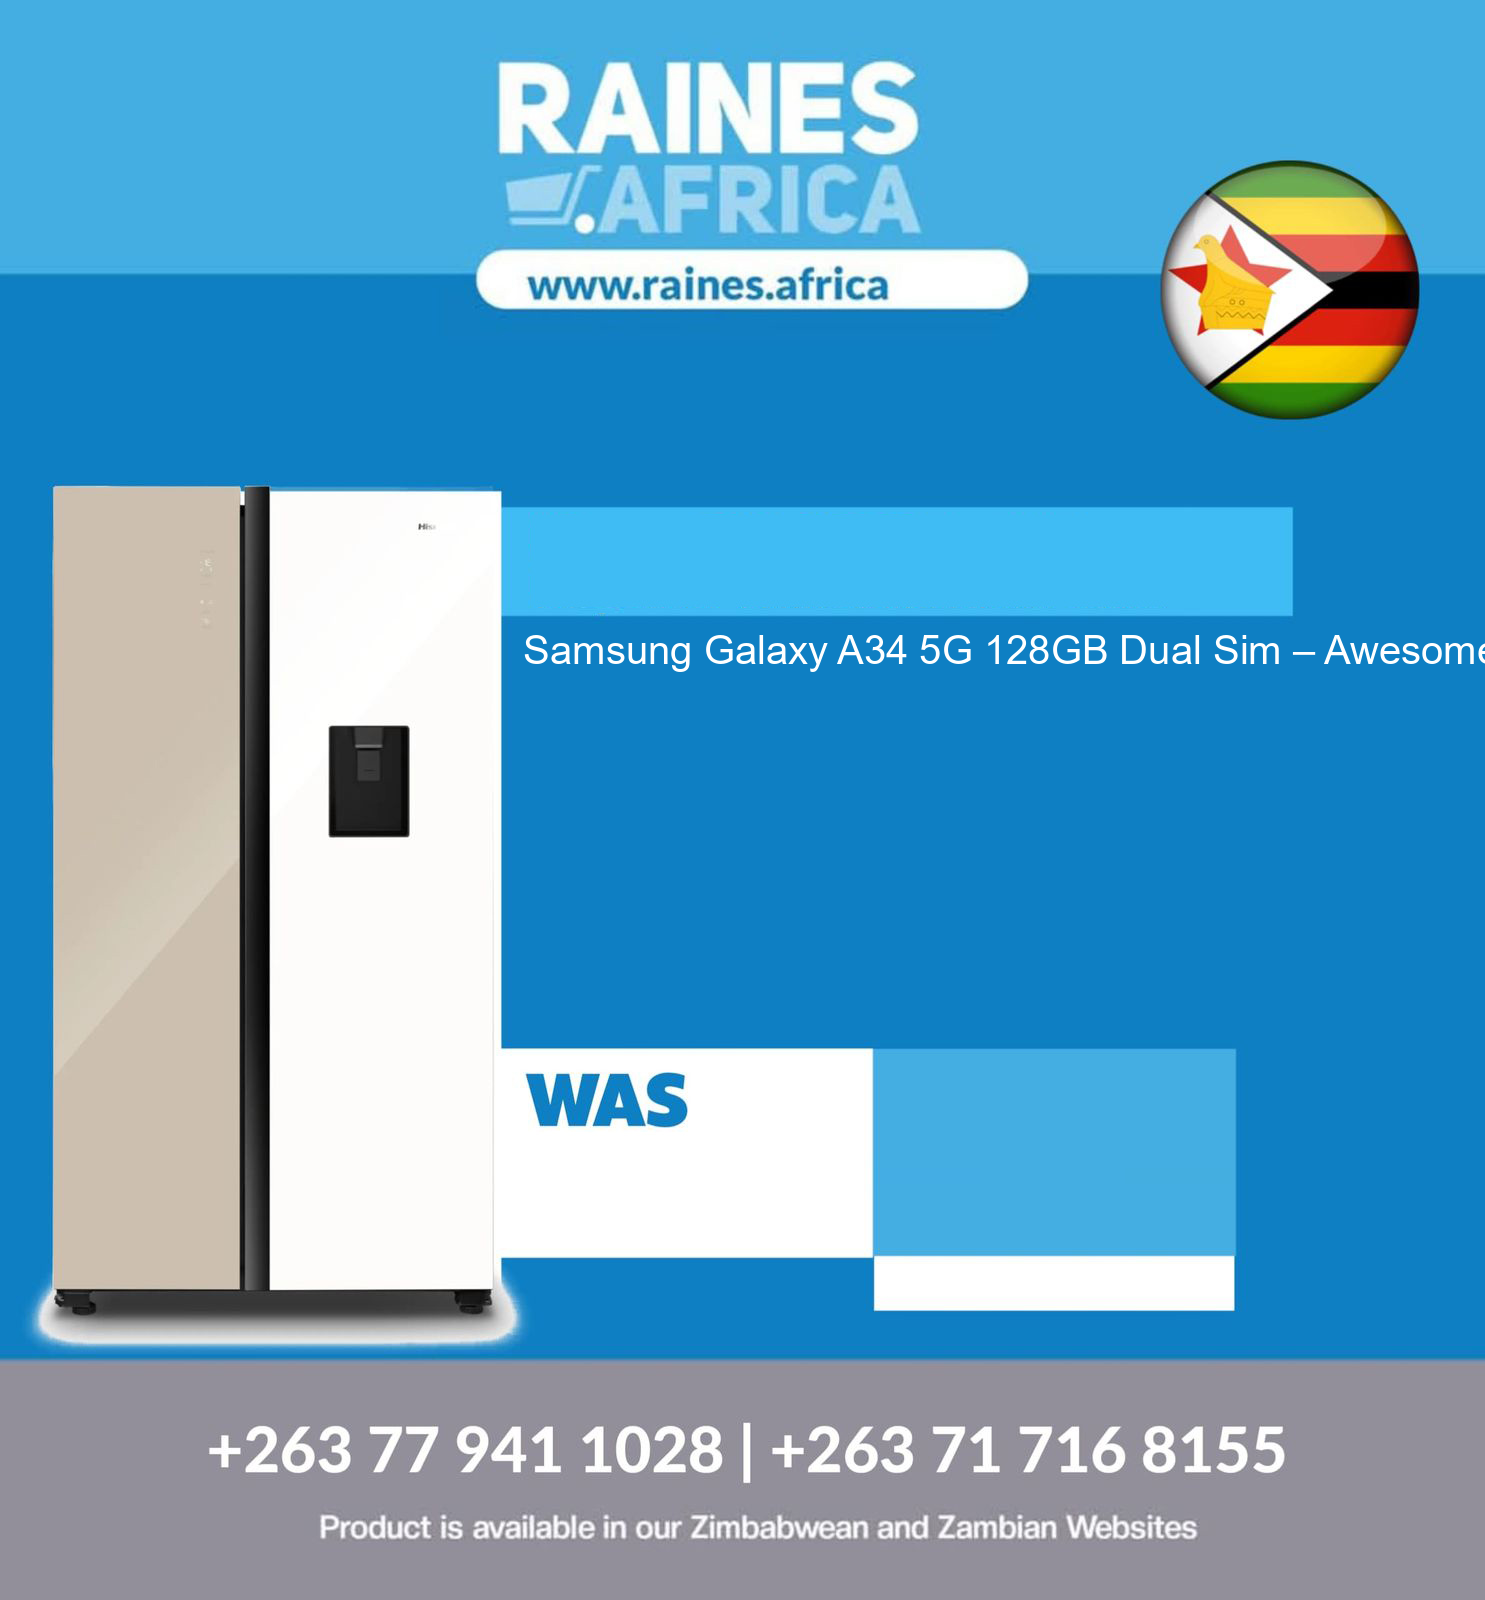
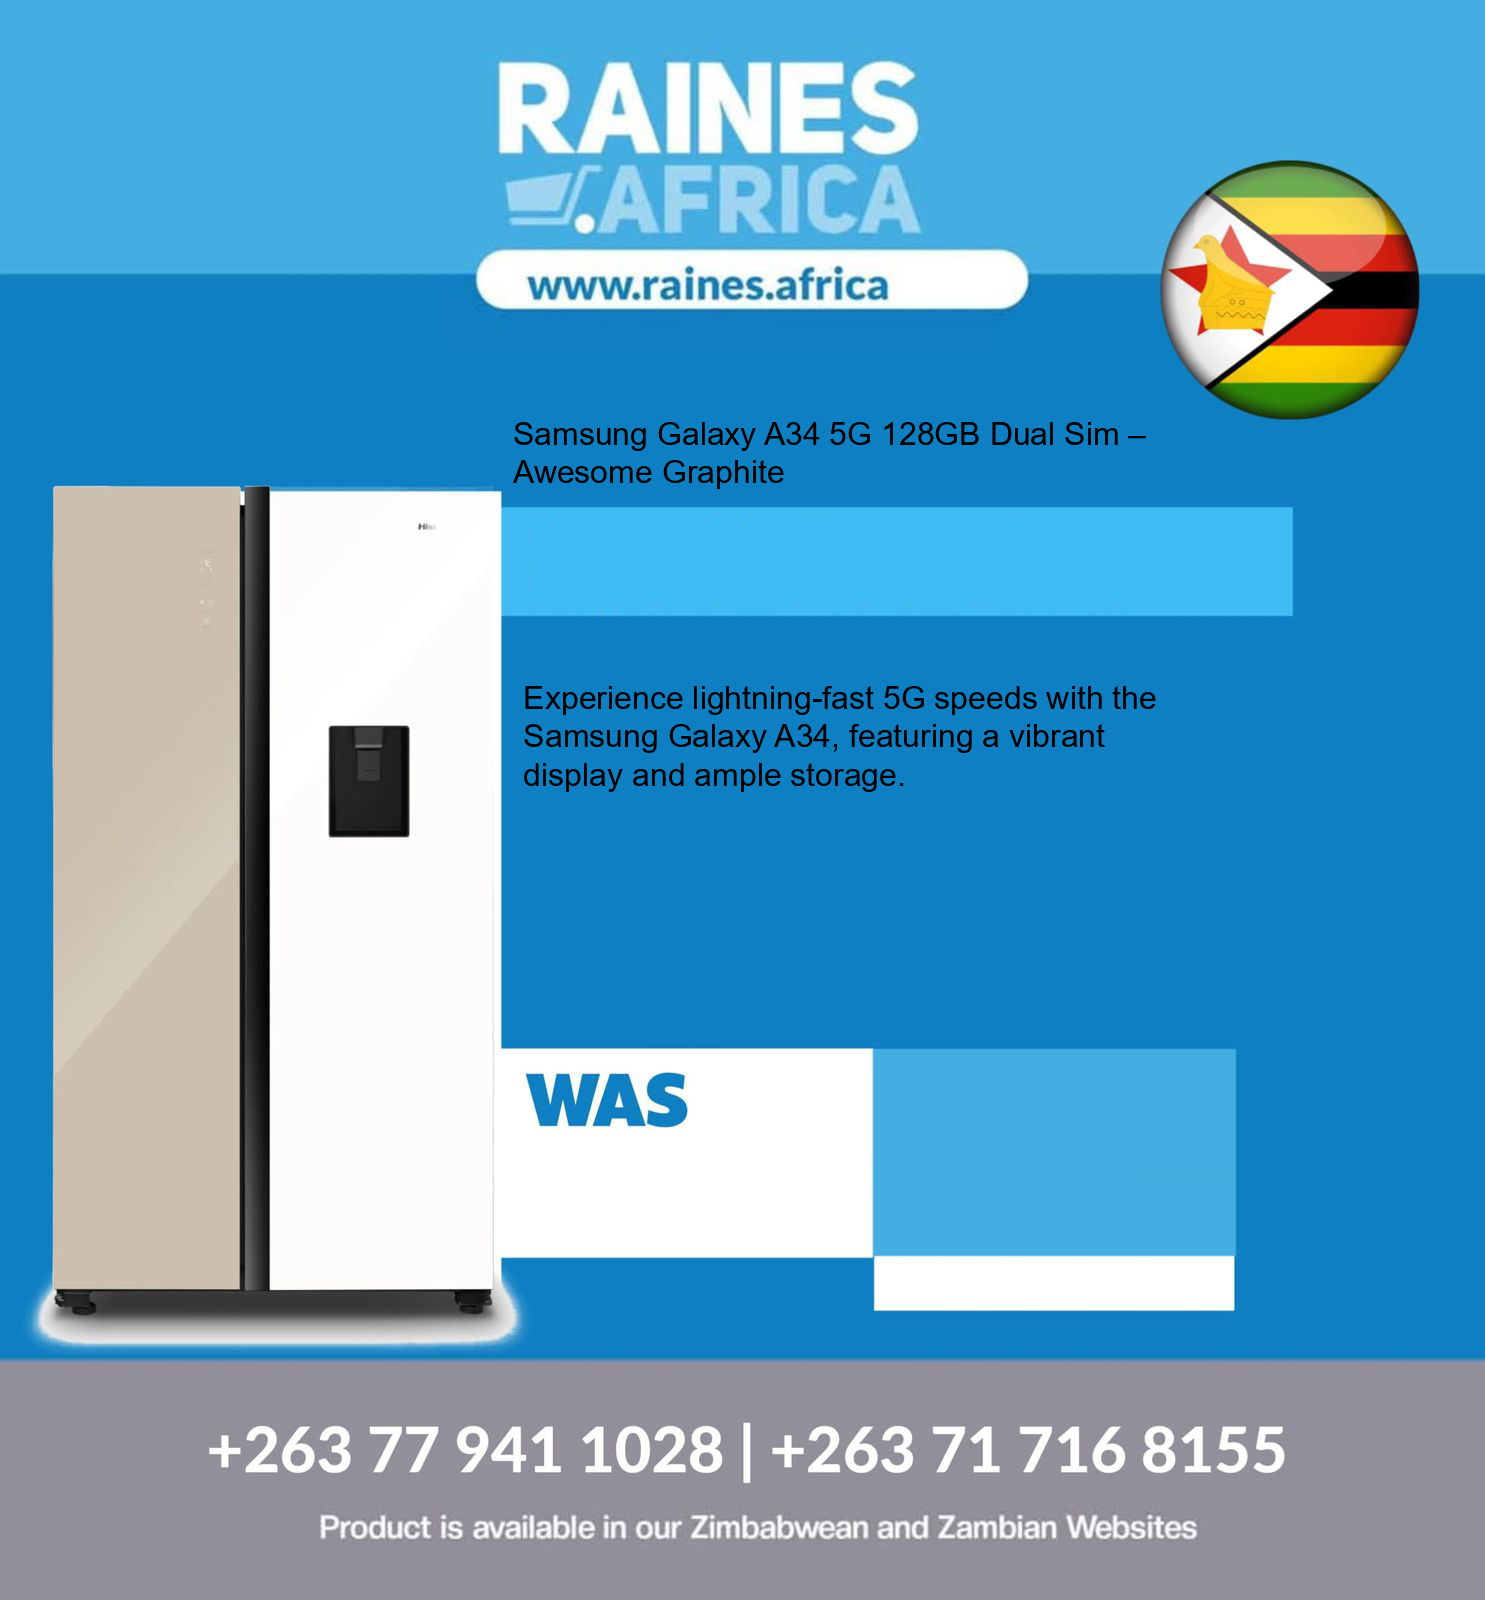
tapadhuze

diff --git a/static/script.js b/static/script.js
@@ -119,10 +119,13 @@ document.getElementById('addTextBox').addEventListener('click', () => {
     
     const textBox = document.createElement('div');
     textBox.className = 'text-box';
-    textBox.innerHTML = `<div class="text-box-header">${column}</div>`;
     textBox.style.fontSize = `${fontSize}px`;
     textBox.style.color = color;
     textBox.style.fontFamily = fontFamily;
+    textBox.style.wordWrap = 'break-word';
+    textBox.style.overflowWrap = 'break-word';
+    textBox.style.whiteSpace = 'pre-wrap';
+    textBox.style.overflow = 'hidden';
     
     // Store styling data
     textBox.dataset.column = column;
@@ -515,7 +518,13 @@ function updateTextBoxPreview(textBox) {
         const previewText = csvData[0][column];
         textBox.innerHTML = `
             <div class="text-box-header">${column}</div>
-            <div class="text-box-content">${previewText}</div>
+            <div class="text-box-content" style="word-wrap: break-word; overflow-wrap: break-word; white-space: pre-wrap;">${previewText}</div>
         `;
+        
+        // Add text wrapping styles to the text box itself
+        textBox.style.wordWrap = 'break-word';
+        textBox.style.overflowWrap = 'break-word';
+        textBox.style.whiteSpace = 'pre-wrap';
+        textBox.style.overflow = 'hidden';
     }
 } 

diff --git a/app.py b/app.py
@@ -61,6 +61,33 @@ def upload_csv():
     except Exception as e:
         return jsonify({'error': str(e)}), 400
 
+def wrap_text(draw, text, font, max_width):
+    """Helper function to wrap text based on given width"""
+    words = text.split()
+    lines = []
+    current_line = []
+    
+    for word in words:
+        current_line.append(word)
+        # Check the width of the current line
+        line_width = draw.textlength(' '.join(current_line), font=font)
+        if line_width > max_width:
+            # Remove the last word if we exceeded the width
+            if len(current_line) > 1:
+                current_line.pop()
+                lines.append(' '.join(current_line))
+                current_line = [word]
+            else:
+                # If a single word is too long, keep it on its own line
+                lines.append(word)
+                current_line = []
+    
+    # Add the last line if there's anything left
+    if current_line:
+        lines.append(' '.join(current_line))
+    
+    return lines
+
 @app.route('/generate_images', methods=['POST'])
 def generate_images():
     try:
@@ -83,7 +110,7 @@ def generate_images():
 
                 # Add text for each text box
                 for box in text_boxes:
-                    text = row[box['column']]
+                    text = str(row[box['column']])
                     font_size = int(box['size'])
                     font_family = box.get('fontFamily', 'arial.ttf')
                     
@@ -102,30 +129,45 @@ def generate_images():
                         # Fallback to default font if specified font not found
                         font = ImageFont.truetype('arial.ttf', font_size)
                     
-                    # Calculate text dimensions
-                    bbox = draw.textbbox((0, 0), text, font=font)
-                    text_width = bbox[2] - bbox[0]
-                    text_height = bbox[3] - bbox[1]
+                    # Get text box dimensions
+                    box_width = box.get('width', 0)
+                    box_height = box.get('height', 0)
                     
-                    # Calculate text position based on alignment
+                    # Wrap text to fit within box width
+                    wrapped_lines = wrap_text(draw, text, font, box_width)
+                    
+                    # Calculate total text height
+                    line_height = font_size * 1.2  # Add some line spacing
+                    total_text_height = len(wrapped_lines) * line_height
+                    
+                    # Calculate starting Y position to vertically center the text
                     x = box['x']
                     y = box['y']
-                    align = box.get('align', 'left')
-                    box_width = box.get('width', text_width)
                     
-                    if align == 'center':
-                        x += (box_width - text_width) / 2
-                    elif align == 'right':
-                        x += box_width - text_width
-                    
-                    # Draw text with all specified styles
-                    draw.text((x, y), text, fill=box['color'], font=font)
-                    
-                    # Draw underline if specified
-                    if box.get('underline', False):
-                        y_underline = y + text_height
-                        draw.line([(x, y_underline), (x + text_width, y_underline)], 
-                                fill=box['color'], width=max(1, int(font_size/20)))
+                    # Draw each line of text
+                    current_y = y
+                    for line in wrapped_lines:
+                        # Calculate line width for alignment
+                        line_width = draw.textlength(line, font=font)
+                        
+                        # Adjust x position based on alignment
+                        align = box.get('align', 'left')
+                        line_x = x
+                        if align == 'center':
+                            line_x = x + (box_width - line_width) / 2
+                        elif align == 'right':
+                            line_x = x + box_width - line_width
+                        
+                        # Draw the line
+                        draw.text((line_x, current_y), line, fill=box['color'], font=font)
+                        
+                        # Draw underline if specified
+                        if box.get('underline', False):
+                            y_underline = current_y + font_size
+                            draw.line([(line_x, y_underline), (line_x + line_width, y_underline)], 
+                                    fill=box['color'], width=max(1, int(font_size/20)))
+                        
+                        current_y += line_height
 
                 # Save the image to the ZIP file
                 img_path = f'image_{i+1}.png'
@@ -162,7 +204,7 @@ def preview_images():
             draw = ImageDraw.Draw(img)
             
             for box in text_boxes:
-                text = row[box['column']]
+                text = str(row[box['column']])
                 font_size = int(box['size'])
                 font_family = box.get('fontFamily', 'arial.ttf')
                 
@@ -181,30 +223,45 @@ def preview_images():
                     # Fallback to default font if specified font not found
                     font = ImageFont.truetype('arial.ttf', font_size)
                 
-                # Calculate text dimensions
-                bbox = draw.textbbox((0, 0), text, font=font)
-                text_width = bbox[2] - bbox[0]
-                text_height = bbox[3] - bbox[1]
+                # Get text box dimensions
+                box_width = box.get('width', 0)
+                box_height = box.get('height', 0)
                 
-                # Calculate text position based on alignment
+                # Wrap text to fit within box width
+                wrapped_lines = wrap_text(draw, text, font, box_width)
+                
+                # Calculate total text height
+                line_height = font_size * 1.2  # Add some line spacing
+                total_text_height = len(wrapped_lines) * line_height
+                
+                # Calculate starting Y position to vertically center the text
                 x = box['x']
                 y = box['y']
-                align = box.get('align', 'left')
-                box_width = box.get('width', text_width)
                 
-                if align == 'center':
-                    x += (box_width - text_width) / 2
-                elif align == 'right':
-                    x += box_width - text_width
-                
-                # Draw text with all specified styles
-                draw.text((x, y), text, fill=box['color'], font=font)
-                
-                # Draw underline if specified
-                if box.get('underline', False):
-                    y_underline = y + text_height
-                    draw.line([(x, y_underline), (x + text_width, y_underline)], 
-                            fill=box['color'], width=max(1, int(font_size/20)))
+                # Draw each line of text
+                current_y = y
+                for line in wrapped_lines:
+                    # Calculate line width for alignment
+                    line_width = draw.textlength(line, font=font)
+                    
+                    # Adjust x position based on alignment
+                    align = box.get('align', 'left')
+                    line_x = x
+                    if align == 'center':
+                        line_x = x + (box_width - line_width) / 2
+                    elif align == 'right':
+                        line_x = x + box_width - line_width
+                    
+                    # Draw the line
+                    draw.text((line_x, current_y), line, fill=box['color'], font=font)
+                    
+                    # Draw underline if specified
+                    if box.get('underline', False):
+                        y_underline = current_y + font_size
+                        draw.line([(line_x, y_underline), (line_x + line_width, y_underline)], 
+                                fill=box['color'], width=max(1, int(font_size/20)))
+                    
+                    current_y += line_height
             
             # Save preview image
             preview_filename = f'preview_{i}.png'
